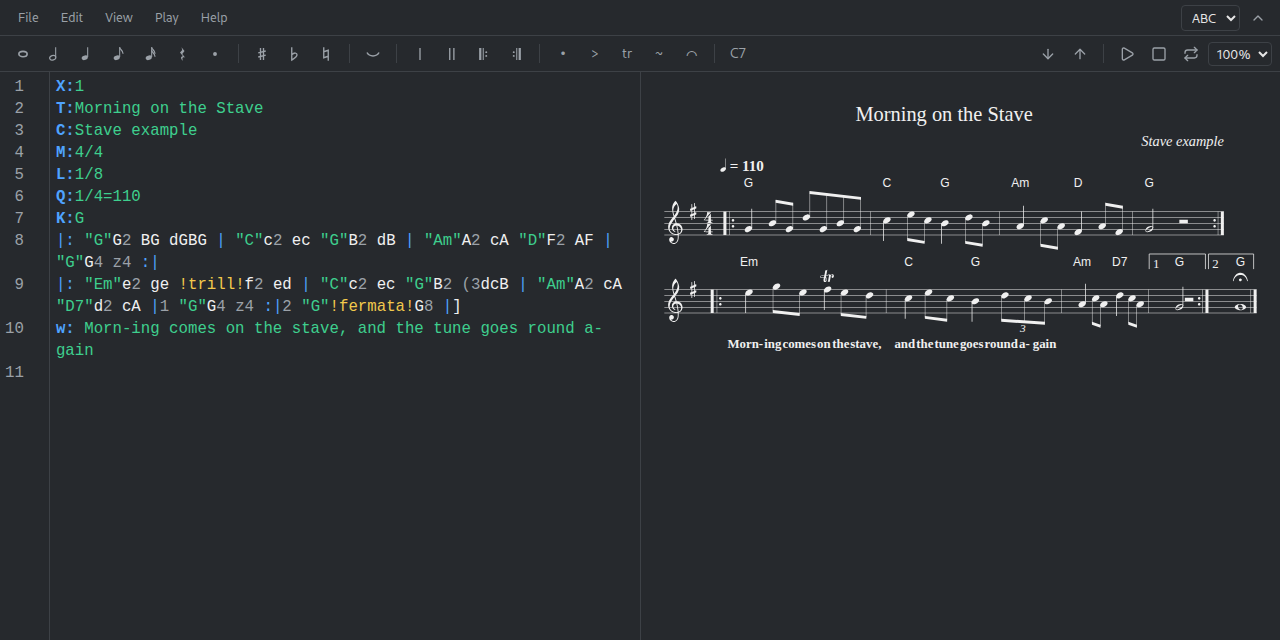
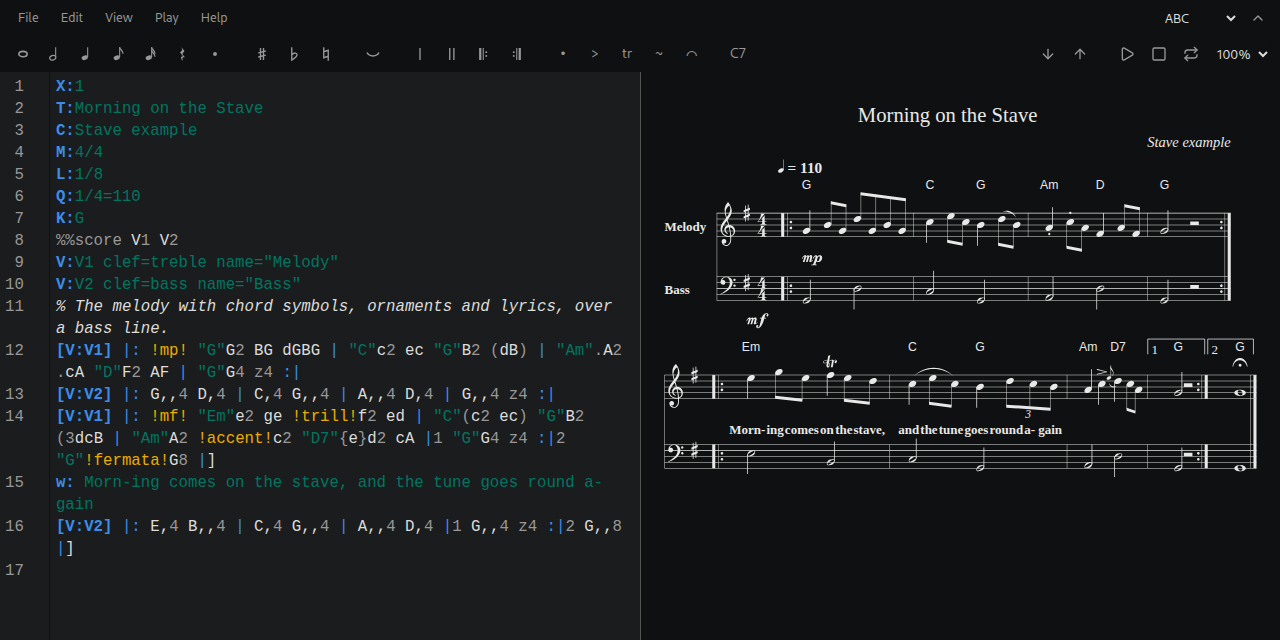
docs: show both examples and bass tracks
New screenshots of the ABC and alphaTex examples in a light and a dark
theme, and how to write a 4 or 5-string bass track in alphaTex.

diff --git a/README.md b/README.md
@@ -11,9 +11,11 @@ A music notation and tablature editor for [Standard Notes](https://standardnotes
 
 Stave is in early development: ABC and alphaTex work end to end, and more is coming (see [Roadmap](#roadmap)).
 
-![Stave editing an ABC tune, light theme](.github/screenshots/stave-abc-light.png)
+![Stave editing an ABC tune with a melody and a bass line, light theme](.github/screenshots/stave-abc-light.png)
 
-![The same tune in a dark theme](.github/screenshots/stave-abc-dark.png)
+![The same tune in alphaTex, with melody, rhythm guitar and 4-string bass tracks, dark theme](.github/screenshots/stave-alphatex-dark.png)
+
+More screenshots: [ABC, dark theme](.github/screenshots/stave-abc-dark.png) and [alphaTex, light theme](.github/screenshots/stave-alphatex-light.png).
 
 ## Features
 
@@ -29,16 +31,18 @@ Stave is in early development: ABC and alphaTex work end to end, and more is com
 
 ### alphaTex
 
-- Standard notation and guitar tablature with [alphaTab](https://www.alphatab.net), several tracks with their own tunings, shown as score, tab or both (View menu)
+- Standard notation and tablature with [alphaTab](https://www.alphatab.net), several tracks with their own tunings (guitar, 4 or 5-string bass, any `\tuning`), shown as score, tab or both (View menu)
 - Parser errors underlined in the source at their line and column; the last good rendering stays while you fix them
-- A toolbar for durations, rests, dots, ties, bar lines, repeats, chord symbols and techniques (bend, slide, hammer-on, palm mute, harmonic, vibrato, dead note); sharp and flat move a fret up or down
+- A toolbar for durations, rests, dots, ties, bar lines, repeats, chord symbols and techniques (bend, slide, hammer-on, palm mute, harmonic, vibrato, dead note); sharp and flat move a fret up or down, and notes are placed on the strings of the track's tuning
 - Click a beat in the rendering to select it in the source; the beat at the cursor is marked in the rendering
 - Playback with alphaTab's synthesizer and the Sonivox SoundFont that ships with the plugin, with a cursor, loop, speed, and mute or solo per track (Play menu)
-- Transpose the source a semitone at a time: frets, pitch names, key signature and chord symbols
+- Transpose the source a semitone at a time: frets (moved to another string of the track's tuning when they leave the neck), pitch names, key signature and chord symbols
 - Export SVG (with the music font inside), PNG, MIDI and Guitar Pro 7, or download the `.atex` source
 - Syntax highlighting, completion of metadata tags, and a cheat sheet in the Help menu
 
 ### Editor
+
+- Each notation comes with a short template for a new piece and a full example (File menu, or the buttons of an empty note): the same tune in ABC and in alphaTex, showing what each can do
 
 - Source and rendering side by side, stacked, or one at a time, with the panes in either order
 - A menu bar (File, Edit, View, Play, Help) and a contextual toolbar, both collapsible, with the notation of the note always visible
@@ -104,7 +108,13 @@ An alphaTex note is plain [alphaTex](https://www.alphatab.net/docs/alphatex/intr
 \track "Guitar"
 \staff {score tabs}
 0.6.8 0.6 3.6 0.6 5.6.4 3.6.8 5.6 | (0.6 2.5 2.4).4{ch "E5"} 7.3{b (0 4)}.4 r.2
+\track "Bass"
+\tuning (G2 D2 A1 E1)
+\staff {tabs}
+0.4.4 0.4 3.4 0.4 | 0.4.2 r.2
 ```
+
+A bass track takes its tuning from `\tuning`, high string first: `(G2 D2 A1 E1)` for 4 strings, `(G2 D2 A1 E1 B0)` for 5. `\instrument (electricbassfinger)` picks its sound for playback.
 
 [examples/](examples) has a note for each notation, used by the tests and the screenshots.
 
